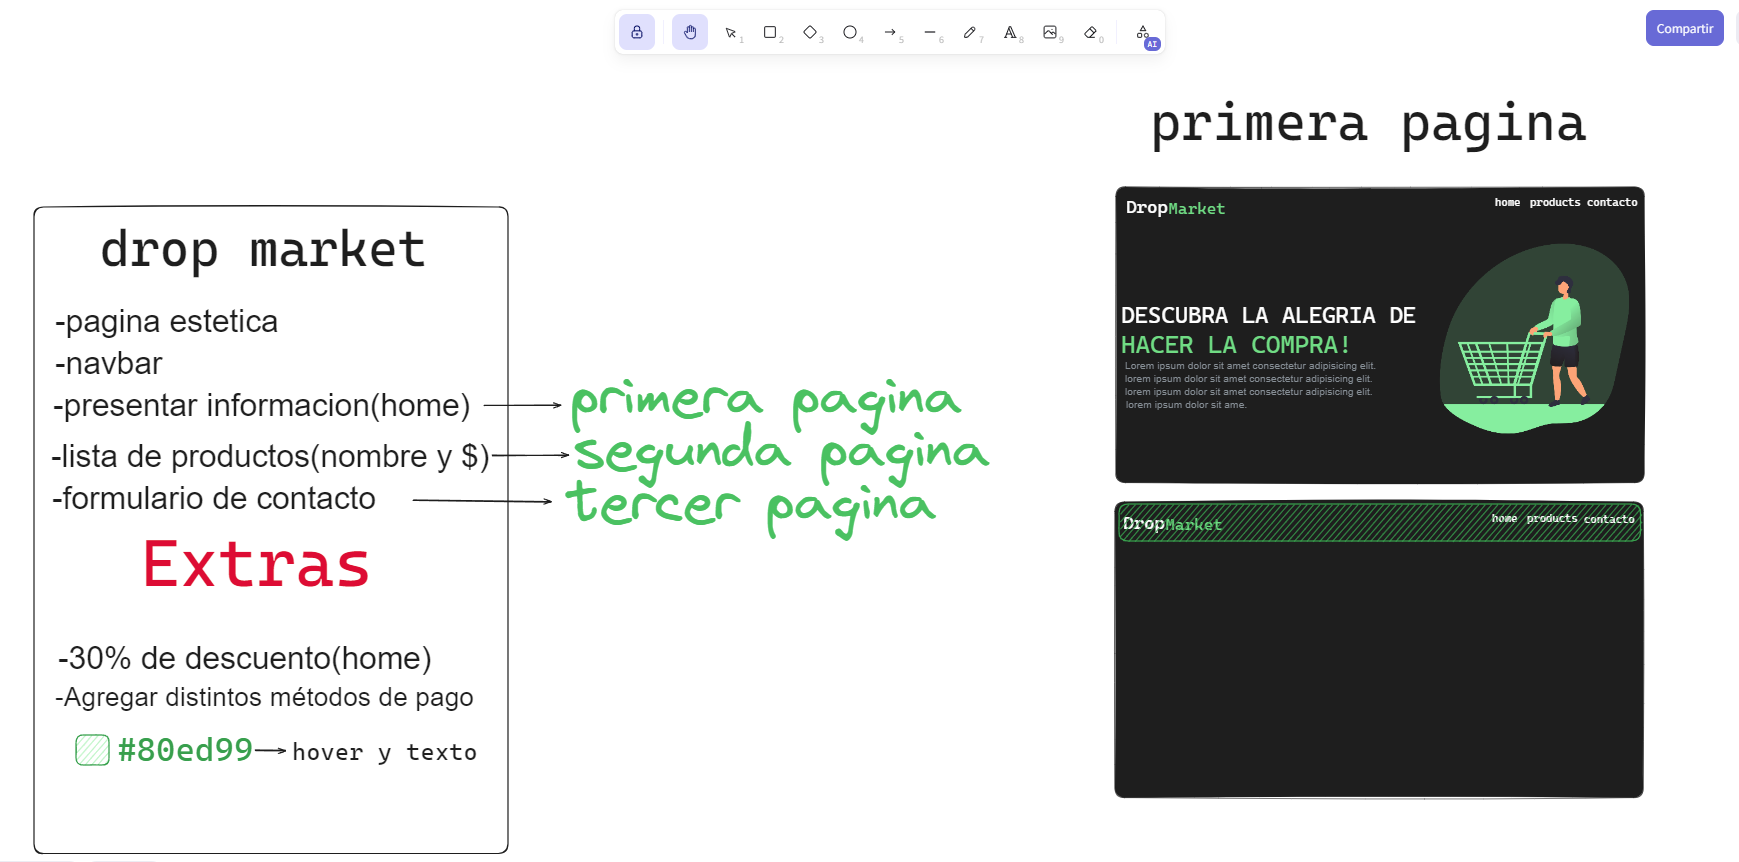
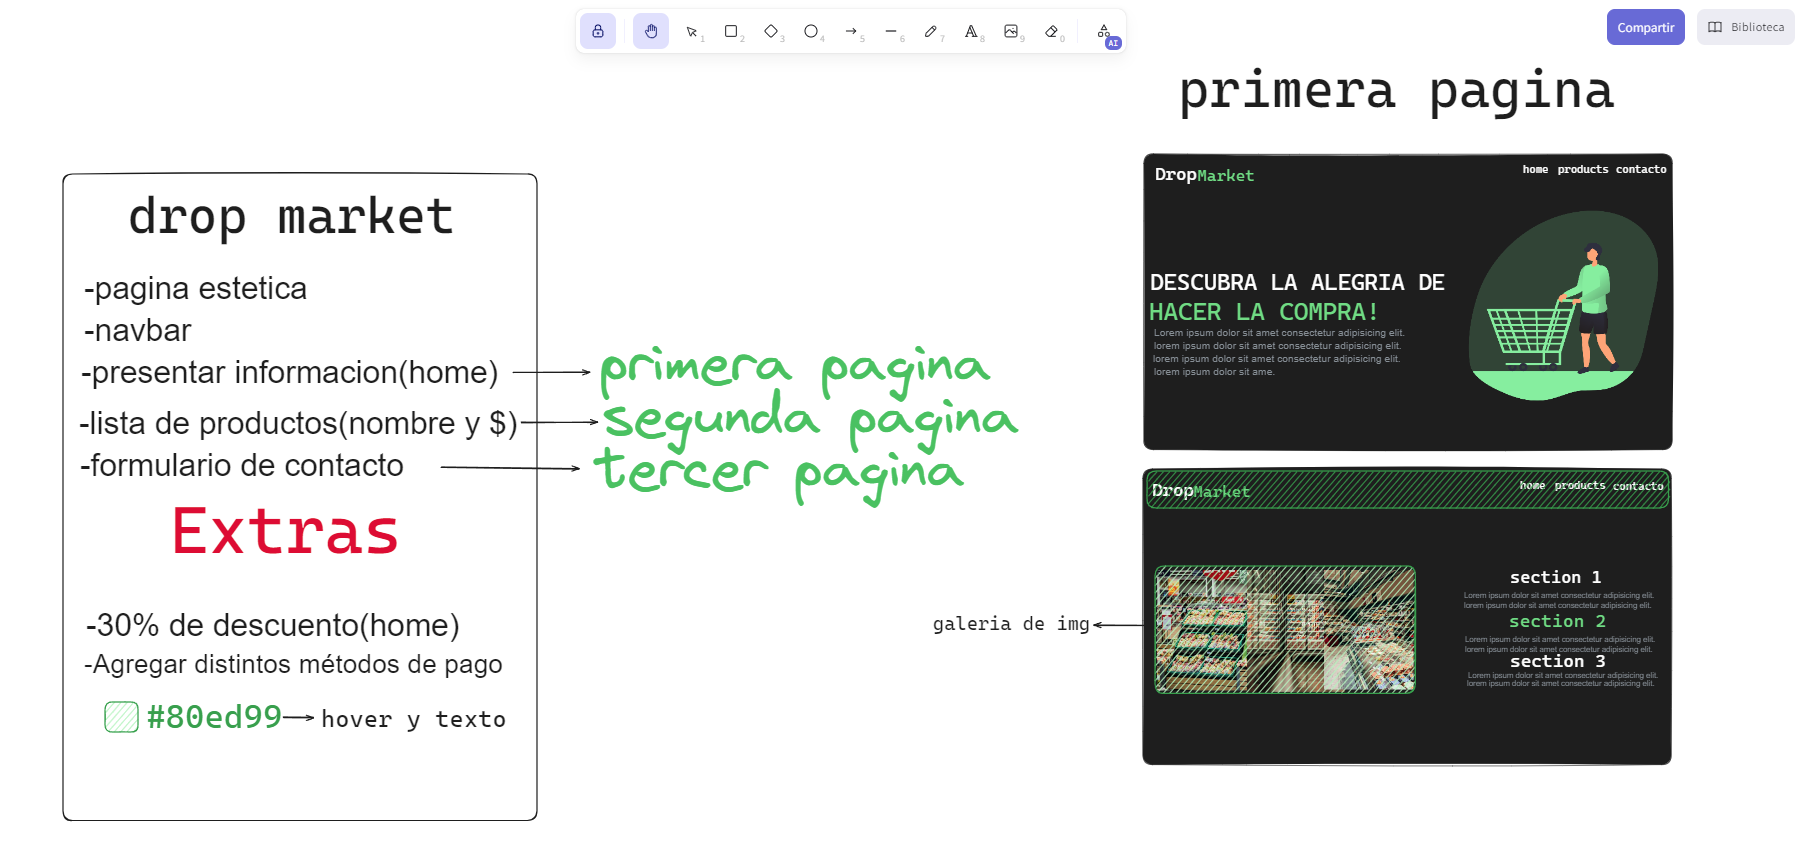
nuevos cambios

diff --git a/index.html b/index.html
@@ -20,7 +20,9 @@
     </header>
     <section class="intro">
       <div class="intro-text">
-        <h1>DESCUBRA LA ALEGRIA DE <span class="verde">HACER LA COMPRA!</span></h1>
+        <h1>
+          DESCUBRA LA ALEGRIA DE <span class="verde">HACER LA COMPRA!</span>
+        </h1>
         <p>
           Lorem ipsum dolor sit amet consectetur adipisicing elit. Cupiditate
           eos voluptas repellendus vero quis, commodi at facere, modi aliquam
@@ -29,7 +31,31 @@
         </p>
       </div>
       <div class="intro-image">
-        <img src="shopping-cart-2.png" alt="Intro Image" />
+        <img src="shopping-cart-2.png" />
+      </div>
+    </section>
+    <section class="intro2">
+      <div class="galeria">
+        <img src="supermercado.jpeg" />
+        <img src="supermercado2.jpeg" />
+        <img src="supermercado3.jpeg" />
+      </div>
+      <div class="intro2-text">
+        <h2>SUPERMARKET</h2>
+        <p>
+          Lorem ipsum dolor sit amet consectetur adipisicing elit. Libero
+          deleniti recusandae exercitationem
+        </p>
+        <h2 class="verde">SUPERMARKET</h2>
+        <p>
+          Lorem ipsum dolor sit amet consectetur adipisicing elit. Libero
+          deleniti recusandae
+        </p>
+        <h2>SUPERMARKET</h2>
+        <p>
+          Lorem ipsum dolor sit amet consectetur adipisicing elit. Libero
+          deleniti recusandae exercitationem fugit inventore
+        </p>
       </div>
     </section>
     <script src="script.js"></script>

diff --git a/style.css b/style.css
@@ -9,7 +9,7 @@
 
 body {
   min-height: 100hv;
- background: #000000;
+  background: #000000;
   --gap: 5em;
   --line: 1px;
   --color: rgba(255, 255, 255, 0.2);
@@ -129,4 +129,57 @@ header.scrolled {
 
 .verde {
   color: #80ed99;
+}
+
+/* SECTION 2 */
+
+.intro2 {
+  display: flex;
+  justify-content: space-between;
+  align-items: center;
+  padding: 100px;
+  margin-top: 10px;
+  gap: 250px;
+}
+
+.intro2-text {
+  flex: 1;
+}
+
+.intro2-text h2 {
+  font-size: 55px;
+  margin-bottom: 20px;
+  padding: 5px;
+  color: #fff;
+}
+
+.intro2-text .verde {
+  color: #80ed99;
+}
+
+.intro2-text p {
+  font-size: 18px;
+  color: #c7c7c7;
+}
+
+.galeria {
+  display: flex;
+  width: 800px;
+  height: 530px;
+}
+
+.galeria img {
+  width: 0px;
+  flex-grow: 1;
+  object-fit: cover;
+  border-radius: 2%;
+  opacity: 0.8;
+  transition: 0.5s ease;
+}
+
+.galeria img:hover {
+  cursor: crosshair;
+  width: 350px;
+  opacity: 1;
+  filter: contrast(120%);
 }
